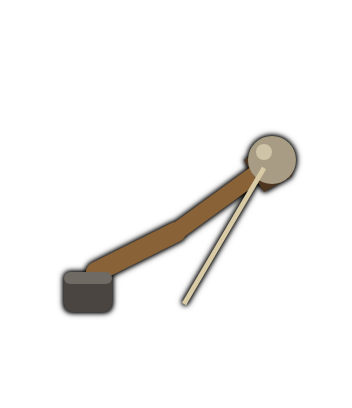
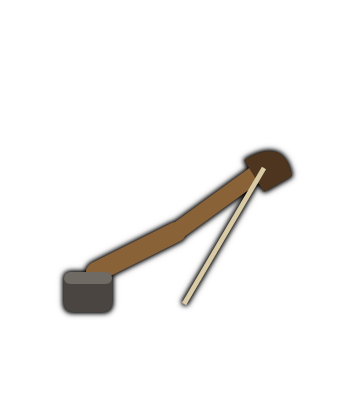
Stein-Animationen: Schleuder, Katapult, Onyx, Erdbeben, Wächter, Lawine, Bergkönig (27a)
Claude-Session: https://claude.ai/code/session_012Nsno37nEjc4wateER8C5H

Changed region(s): [[0.6875, 0.3235, 0.875, 0.4706]]

diff --git a/index.html b/index.html
@@ -222,7 +222,7 @@ const FIREBASE_CONFIG = {
   appId: "1:45840879921:web:f4f4f8bb60e49a091ae010"
 };
 const GAME_ID = "spiel1";   // anderer Name = eigenes, getrenntes Spiel
-const VERSION = "2026-10-26w";  // bei JEDER Änderung hochzählen: alte Handys merken so, dass sie neu laden müssen
+const VERSION = "2026-10-27a";  // bei JEDER Änderung hochzählen: alte Handys merken so, dass sie neu laden müssen
 
 /* =====================================================================
    SPIELDATEN – Regeln und Zahlen. Alles hier darf geändert werden.
@@ -1902,7 +1902,7 @@ function loadImg(k){   // bei Ladefehler bis zu 3 Wiederholungen (Handy-Netz)
 }
 loadImg.n = {};
 // 26i (F): bewegliche Teile. Jeder Turm hat ein Grundbild (assets/turm/<element>-<nr>.png) und PARTN Teilbilder (…-<nr>p<id>.png, gleiches Raster), die einzeln um einen Drehpunkt bewegt werden
-const PARTN = { feuer:[1,1,2,2,2,2,1,1], eis:[1,1,1,1,1,1,1,2], schatten:[1,1,2,2,2,1,3,2], stein:[1,2,1,1,2,2,2,3] };
+const PARTN = { feuer:[1,1,2,2,2,2,1,1], eis:[1,1,1,1,1,1,1,2], schatten:[1,1,2,2,2,1,3,2], stein:[1,2,2,1,2,3,2,3] };
 function towerImg(el, idx){
   const nmE = TOWER_NAME[el], n = nmE + '-' + (idx + 1), b = loadImg(n), cnt = PARTN[nmE][idx], ps = [];
   let wait = false;
@@ -1911,6 +1911,11 @@ function towerImg(el, idx){
   b.parts = ps; return b;
 }
 // Bewegung je Teil: [Drehpunkt x, y (Raster, Fuß = 0), Funktion(t Zeit, g 1→0 nach dem Schuss, w Ausschlag 0→1→0, dx, dy Zielrichtung) → {r Drehung, x, y Verschiebung, sx, sy, a}]
+const smooth01 = x => { x = Math.max(0, Math.min(1, x)); return x*x*(3 - 2*x); };
+const catArm = ts => ts < .18 ? -Math.PI*(1 - smooth01(ts/.18)) + .1*Math.sin(Math.PI*smooth01(ts/.18)) : ts < .5 ? .1*(1 - smooth01((ts - .18)/.32)) : ts < 1.1 ? 0 : -Math.PI*smooth01((ts - 1.1)/1.4);   // 27.10. Katapult: -π = gespannt (Wurfarm hinten unten), 0 = abgeworfen
+const spearArm = ts => ts < .12 ? -.5 + 1.9*smooth01(ts/.12) : ts < .55 ? 1.4*(1 - smooth01((ts - .12)/.43)) : -.5*smooth01((ts - 1.0)/.8);   // Wächter: Wurf nach vorn, danach zurück, dann wieder ausholen
+const lunge = ts => ts < .1 ? smooth01(ts/.1) : ts < .2 ? 1 : 1 - smooth01((ts - .2)/.35);   // Onyx: Biss
+const hammerPose = ts => { const f = ts < .1 ? smooth01(ts/.1) : ts < .35 ? 1 : 1 - smooth01((ts - .35)/.55); return [-1.7 + 1.55*f, .2 + 2.2*f]; };   // Bergkönig: [Armwinkel, Hammerwinkel]; f=1: Hammer schlägt auf den Boden
 const PARTS = (() => {
   const S = Math.sin, PI = Math.PI, sc = v => ({ sx: v, sy: v });
   return {
@@ -1944,13 +1949,13 @@ const PARTS = (() => {
     schatten7: [[6, -24, (t, g, w, dx, dy) => ({ r: Math.max(-.6, Math.min(.6, Math.atan2(dy, Math.abs(dx))))*.8 + .04*S(t*1.6) - .18*w })],
             [-2, -27, (t, g, w) => ({ r: .1*S(t*2.4) - .4*w })]],
     stein0: [[.6, -45, (t) => ({ sx: 1 + .25*S(t*6), r: .05*S(t*4 + 1) })]],
-    stein1: [[0, -30, (t, g) => ({ sy: 1 + .5*g })], [0, -22, (t, g) => ({ a: 1 - Math.min(1, g*1.6), y: 5*g })]],
-    stein2: [[0, -34, (t, g, w) => ({ r: .85*w })]],
-    stein3: [[6, -44, (t, g, w, dx, dy) => ({ r: .08*S(t*1.7) - .25*w, x: dx*5*w, y: dy*3*w })]],
+    stein1: [[0, -30, () => ({ a: 0 })], [0, -22, () => ({ a: 0 })]],     // Schleuder: Gummi und Stein zeichnet der Code (gespannt, schnellt zurück)
+    stein2: [[0, -34, (t, g, w, dx, dy, ts) => ({ r: catArm(ts) })], [0, -34, (t, g, w, dx, dy, ts) => ({ r: catArm(ts), a: ts < .09 || ts > 1.0 ? 1 : 0 })]],      // Katapult: Arm schwingt über den Kopf, Stein sitzt in der Schale
+    stein3: [[6, -44, (t, g, w, dx, dy, ts) => { const L = lunge(ts), ax = Math.abs(dx); return { r: .08*S(t*1.7) + Math.atan2(dy, ax)*.6*L, x: ax*30*L, y: dy*20*L }; }]],   // Onyx: Kopf schnellt zum Ziel, der Hals dehnt sich (Code)
     stein4: [[0, -2, (t, g, w) => ({ y: -4*w, x: S(t*70)*1.2*g })], [0, -12, (t, g, w) => ({ y: -6*w, x: -S(t*60)*1.5*g })]],
-    stein5: [[14, -40, (t, g, w, dx, dy) => ({ x: dx*9*w, y: dy*6*w, r: .03*S(t*1.5) })], [-15, -38, (t, g, w) => ({ r: .04*S(t*1.8) - .12*w })]],
-    stein6: [[0, -18, (t, g, w, dx) => ({ r: .06*S(t*2), y: -1*S(t*3) - 2*w, x: dx*3*w })], [-26, -10, (t, g) => ({ a: Math.min(1, .5 + .2*S(t*5) + .3*g), x: -3*g })]],
-    stein7: [[-26, -52, (t, g, w) => ({ r: .05*S(t*1.4) + .9*w })], [26, -52, (t, g, w) => ({ r: -.05*S(t*1.4 + 1) - .9*w })], [0, -62, (t, g, w) => ({ y: -1.2*S(t*1.4) + 3*w })]]
+    stein5: [[14, -40, (t, g, w, dx, dy, ts) => ({ r: spearArm(ts) })], [-15, -38, (t, g, w) => ({ r: .04*S(t*1.8) - .12*w })], [14, -40, (t, g, w, dx, dy, ts) => ({ r: spearArm(ts), a: ts < .07 || ts > 1.0 ? 1 : 0 })]],   // Wächter: Arm holt aus und wirft, Speer fliegt, neuer Speer kommt nach
+    stein6: [[0, -18, (t, g, w, dx) => ({ r: .06*S(t*2) + dx*.25*w, y: -1*S(t*3) - 2*w, x: dx*5*w })], [-26, -10, (t, g) => ({ a: Math.min(1, .5 + .2*S(t*5) + .3*g), x: -3*g })]],
+    stein7: [[-26, -52, (t) => ({ r: .04*S(t*1.4) })], [30, -52, (t, g, w, dx, dy, ts) => ({ r: hammerPose(ts)[0] })], [0, -62, (t, g, w) => ({ y: -1.2*S(t*1.4) + 3*w })]],   // Bergkönig: rechter Arm hebt/schlägt den Hammer (Hammer: Code)
   };
 })();
 const JETS = {};   // Flammenwerfer: letztes Ziel je Turm (Simulationszeit), daraus entsteht die zusammenhängende Flamme
@@ -1989,18 +1994,49 @@ function drawTower25(c, tw, x, y, cs, aim, glow){
     else if (nm === 'schatten0' || nm === 'schatten5') { sx = sy = 1; ox = oy = 0; }   // Schemen/Phantom: bewegt sich als Teilbild
     else if (nm === 'schatten1') { ox = 0; oy = Math.sin(now*3 + tw.x) * cs*.05 - cs*.05; sx = sy = 1; }   // Irrlicht schwebt
     else if (nm === 'feuer2' || nm === 'feuer3') { ox = -dx*cs*.07*g; }
-    const flip = (nm === 'feuer1' && Math.cos(aim) > 0) || (nm === 'feuer2' && Math.cos(aim) < 0) || (nm === 'feuer3' && Math.cos(aim) < 0) || (nm === 'feuer4' && Math.cos(aim) > 0) || ((nm === 'eis3' || nm === 'eis7' || nm === 'schatten7') && Math.cos(aim) < 0);   // Glumanda blickt nach links, Flammenwerfer-Mündung nach rechts   // Glumanda blickt nach links und dreht sich zum Ziel: Schuss kommt aus dem Maul
+    const flip = (nm === 'feuer1' && Math.cos(aim) > 0) || (nm === 'feuer2' && Math.cos(aim) < 0) || (nm === 'feuer3' && Math.cos(aim) < 0) || (nm === 'feuer4' && Math.cos(aim) > 0) || ((nm === 'eis3' || nm === 'eis7' || nm === 'schatten7' || nm === 'stein2' || nm === 'stein3' || nm === 'stein5' || nm === 'stein7') && Math.cos(aim) < 0);   // Glumanda blickt nach links, Flammenwerfer-Mündung nach rechts   // Glumanda blickt nach links und dreht sich zum Ziel: Schuss kommt aus dem Maul
     c.save(); c.translate(fx + ox, fy + oy); c.rotate(rotA); c.scale(flip ? -sx : sx, sy);
     c.drawImage(sp, -44*u, -92*u, 88*u, 102*u);
     const gp = Math.max(0, 1 - (now - (FIRE_T[key] === undefined ? -9 : FIRE_T[key])) / .5), wp = gp > 0 ? Math.sin(Math.PI * (1 - gp)) : 0, pd = PARTS[nm];   // bewegliche Teile
+    const ts = now - (FIRE_T[key] === undefined ? -9 : FIRE_T[key]);
+    if (nm === 'stein1') {   // Schleuder: Gummi spannt sich gegen die Zielrichtung, Stein in der Tasche, beim Schuss schnellt das Gummi nach vorn
+      const pull = ts < .5 ? Math.cos(ts*30)*Math.exp(-ts*8) : smooth01((ts - .7)/1.6), P = [-dx*pull*9, -27 - dy*pull*9];
+      c.strokeStyle = '#d9cba6'; c.lineWidth = Math.max(1, (2.2 - Math.max(0, pull)*.8)*u); c.lineCap = 'round'; c.beginPath(); c.moveTo(-9*u, -30*u); c.lineTo(P[0]*u, P[1]*u); c.lineTo(9*u, -30*u); c.stroke();
+      c.fillStyle = '#6b4a2c'; c.beginPath(); c.ellipse(P[0]*u, P[1]*u, 3.4*u, 2.6*u, 0, 0, 7); c.fill();
+      const sa = smooth01((ts - .8)/.4); if (sa > 0) { c.globalAlpha = sa; c.fillStyle = '#a89c84'; c.beginPath(); c.arc(P[0]*u, (P[1] - 1.5)*u, 3.8*u, 0, 7); c.fill(); c.fillStyle = '#cfc3a8'; c.beginPath(); c.arc((P[0] - 1)*u, (P[1] - 2.6)*u, 1.3*u, 0, 7); c.fill(); c.globalAlpha = 1; }
+    }
+    if (nm === 'stein3') {   // Onyx: beim Biss dehnt sich der Hals zum Ziel
+      const L = lunge(ts); if (L > .02) { const ex = 12 + Math.abs(dx)*30*L, ey = -48 + dy*20*L; c.lineCap = 'round'; c.lineJoin = 'round';
+        c.strokeStyle = '#7d725e'; c.lineWidth = 13*u; c.beginPath(); c.moveTo(12*u, -48*u); c.quadraticCurveTo((12 + ex)/2*u, (-48 + ey)/2*u - 6*u*L, ex*u, ey*u); c.stroke();
+        c.strokeStyle = '#b3a78f'; c.lineWidth = 9*u; c.setLineDash([1*u, 9*u]); c.beginPath(); c.moveTo(12*u, -48*u); c.quadraticCurveTo((12 + ex)/2*u, (-48 + ey)/2*u - 6*u*L, ex*u, ey*u); c.stroke(); c.setLineDash([]); }
+    }
     for (let i = 0; i < sp.parts.length; i++) {
       const d = pd && pd[i];
       if (!d) { c.drawImage(sp.parts[i], -44*u, -92*u, 88*u, 102*u); continue; }
-      const m = d[2](now + tw.x*.37 + tw.y*.21, gp, wp, dx, dy), px = d[0]*u, py = d[1]*u;
+      const m = d[2](now + tw.x*.37 + tw.y*.21, gp, wp, dx, dy, ts), px = d[0]*u, py = d[1]*u;
       c.save(); c.translate(px + (m.x || 0)*u, py + (m.y || 0)*u); c.rotate(m.r || 0); c.scale(m.sx === undefined ? 1 : m.sx, m.sy === undefined ? 1 : m.sy); if (m.a !== undefined) c.globalAlpha = m.a;
       c.drawImage(sp.parts[i], -44*u - px, -92*u - py, 88*u, 102*u); c.restore();
     }
+    if (nm === 'stein7') {   // Bergkönig: Hammer in der rechten Hand
+      const [ph, th] = hammerPose(ts), cr = Math.cos(ph), sr = Math.sin(ph), hx = 30 + 6*cr - 28*sr, hy = -52 + 6*sr + 28*cr;
+      c.save(); c.translate(hx*u, hy*u); c.rotate(th); c.scale(1.3, 1.3);
+      c.fillStyle = '#6b4a2c'; c.fillRect(-1.8*u, -27*u, 3.6*u, 33*u); c.fillStyle = '#8a6238'; c.fillRect(-1.8*u, -27*u, 1.3*u, 33*u);
+      c.fillStyle = '#66615b'; c.fillRect(-9.5*u, -38*u, 19*u, 14*u); c.fillStyle = '#8f8a84'; c.fillRect(-9.5*u, -38*u, 19*u, 10*u); c.fillStyle = '#c9c4bd'; c.fillRect(-9.5*u, -38*u, 19*u, 3*u);
+      c.fillStyle = '#f0c04a'; c.fillRect(-9.5*u, -32*u, 19*u, 2*u); c.restore();
+    }
     c.restore();
+    if (nm === 'stein7') {   // Riss läuft vom Hammerschlag zu den Monstern (Boden, kurz sichtbar)
+      const j = JETS['3:' + (tw.x + .5) + ',' + (tw.y + .5)], sg = Math.cos(aim) > 0 ? 1 : -1;
+      if (j && j.t <= now + .05) { const T0 = now - j.t - .08, dur = j.dur, fade = 1 - Math.max(0, (T0 - dur)/.45);
+        if (T0 > 0 && fade > 0) { const sx0 = fx + sg*57*u, sy0 = fy - 1*u, tx = j.tx*cs, ty = gyOf(j.ty, cs), pr = Math.min(1, T0/dur), N = 16, nx = -(ty - sy0), ny = tx - sx0, nl = Math.hypot(nx, ny) || 1;
+          const pt = i => { const t = Math.min(1, i/N*pr*1.0 + 0), jit = Math.sin(i*2.9 + tw.x)*cs*.07*(.4 + .6*Math.sin(Math.PI*i/N)); return [sx0 + (tx - sx0)*t + nx/nl*jit, sy0 + (ty - sy0)*t + ny/nl*jit]; };
+          c.save(); c.globalAlpha = fade; c.lineCap = 'round'; c.lineJoin = 'round';
+          for (const [w2, col] of [[cs*.26, '#d9cba688'], [cs*.12, '#1f1810']]) { c.strokeStyle = col; c.lineWidth = w2; c.beginPath(); for (let i = 0; i <= N; i++) { const q2 = pt(i); i ? c.lineTo(q2[0], q2[1]) : c.moveTo(q2[0], q2[1]); } c.stroke(); }
+          c.lineWidth = cs*.07; c.strokeStyle = '#1f1810'; for (let i = 3; i < N; i += 4) { const q2 = pt(i), s2 = (i % 8 === 3 ? 1 : -1); c.beginPath(); c.moveTo(q2[0], q2[1]); c.lineTo(q2[0] + nx/nl*s2*cs*.16, q2[1] + ny/nl*s2*cs*.16 + cs*.03); c.stroke(); }
+          c.fillStyle = '#d9cba6'; const hd = pt(N); for (let i = 0; i < 6; i++) { c.globalAlpha = fade*.7; c.beginPath(); c.arc(hd[0] + Math.sin(i*2.1 + now*9)*cs*.12, hd[1] - Math.abs(Math.sin(i*1.7 + now*7))*cs*.12*pr, cs*.035, 0, 7); c.fill(); }
+          c.restore(); } }
+      if (ts > .08 && ts < .45) { c.fillStyle = '#d9cba6'; for (let i = 0; i < 6; i++) { c.globalAlpha = .6*(1 - (ts - .08)/.37); c.beginPath(); c.arc(fx + sg*57*u + Math.sin(i*2.3)*cs*.14*(ts*3), fy - 3*u - (ts - .08)*cs*(.4 + i%3*.2), cs*.045, 0, 7); c.fill(); } c.globalAlpha = 1; }
+    }
     if (nm === 'feuer2' || nm === 'eis7' || nm === 'schatten7') { const j = JETS[tw.el + ':' + (tw.x + .5) + ',' + (tw.y + .5)], mxo = nm === 'feuer2' ? 17 : 27, myo = nm === 'feuer2' ? 12 : 42;   // Flamme / Eisfeuer: von der Mündung zum Ziel, solange der Turm schießt
       if (j && j.t <= now + .05 && now - j.t < .28) drawFlame(c, fx + (Math.cos(aim) > 0 ? 1 : -1)*mxo*u, fy - myo*u, j.tx*cs, gyOf(j.ty, cs) - cs*.25, cs, now, Math.min(1, (.28 - (now - j.t)) / .12), nm === 'eis7' ? true : nm === 'schatten7' ? 'sch' : false); }
     if (g > 0 && glow !== undefined) {                                              // Mündungseffekt in Elementfarbe (am Turm, in Zielrichtung)
@@ -2134,7 +2170,9 @@ function shot25(c, p, x, y, a, cs, time){
   if (i === 2) { rock(q*4.2, '#8d8270', '#b3a78f', w*.4); return true; }
   if (i === 3) { rock(q*3.4, '#7d725e', '#b3a78f', w*.5); c.fillStyle = '#5e5646'; for (const sg of [-1, 1]) { c.beginPath(); c.moveTo(x + sg*q*3.4, y); c.lineTo(x + sg*q*5.2, y - q*1.2); c.lineTo(x + sg*q*3.6, y - q*1.6); c.fill(); } return true; }
   if (i === 5) { rot(() => { c.fillStyle = '#908a83'; c.beginPath(); c.moveTo(q*6, 0); c.lineTo(-q*4, -q*2.2); c.lineTo(-q*3, 0); c.lineTo(-q*4, q*2.2); c.closePath(); c.fill(); c.fillStyle = '#b8b2aa'; c.beginPath(); c.moveTo(q*6, 0); c.lineTo(-q*4, -q*2.2); c.lineTo(-q*3, 0); c.fill(); }); return true; }
-  if (i === 6) { rock(q*2.4, '#a89c84', '#cfc3a8', w*.3); c.save(); c.translate(-Math.cos(a)*q*3, -Math.sin(a)*q*3); rock(q*1.8, '#8d8270', '#b3a78f', w); c.restore(); return true; }
+  if (i === 6) { const tr = Math.hypot(p.x - p.x0, p.y - p.y0)*cs, sg = Math.cos(a) < 0 ? -1 : 1, ca = Math.cos(a), sa = Math.sin(a);   // rollende Steine mit Staub
+    c.fillStyle = '#d9cba6'; for (let j = 1; j <= 4; j++) { c.globalAlpha = .5 - j*.1; c.beginPath(); c.arc(x - ca*q*j*2.6, y - sa*q*j*1.3 + q*1.4, q*(1.1 + j*.6), 0, 7); c.fill(); } c.globalAlpha = 1;
+    rock(q*2.4, '#a89c84', '#cfc3a8', sg*tr/(q*2.4)); c.save(); c.translate(-ca*q*3.6, -sa*q*1.8); rock(q*1.8, '#8d8270', '#b3a78f', sg*tr/(q*1.8) + 1); c.restore(); return true; }
   if (i === 7) { rock(q*4.6, '#8f8a84', '#b8b2aa', w*.3); c.fillStyle = '#f1f3f5'; c.beginPath(); c.arc(x - q*1, y - q*2.4, q*1.6, 0, 7); c.fill(); return true; }
   return false;
 }
@@ -2152,13 +2190,15 @@ function drawShot(c, p, cs, time){
   const tot = Math.hypot(p.tx - p.x0, p.ty - p.y0) || 1, left = Math.hypot(dx, dy);
   const k = cs * GRID * .7;                 // Geschosse in alter Feldgröße
   let x = p.x*cs, y = gyOf(p.y, cs), h = 0;
-  if (p.lob) {                              // Wurf: Bogen nach oben, Schatten am Boden
+  const roll = CUR.k < 1 && p.el === 3 && p.idx === 6;   // Lawine: Steine rollen am Boden
+  if (p.lob && !roll) {                              // Wurf: Bogen nach oben, Schatten am Boden
     const tAll = Math.hypot(p.x - p.x0, p.y - p.y0) + left, prog = tAll ? 1 - left / tAll : 1;
     h = Math.sin(Math.PI * prog) * Math.min(1.2 * GRID, tAll * .35) * cs;
     c.fillStyle = '#0006'; c.beginPath(); c.ellipse(x, y, k*.12, k*.06, 0, 0, Math.PI*2); c.fill();
   }
-  y -= h + (CUR.k < 1 && !p.lob ? cs*.25 : 0);
+  y -= h + (CUR.k < 1 && !p.lob ? cs*.25 : 0) + (roll ? cs*.06 : 0);
   if (CUR.k < 1 && p.el === 0 && p.idx === 2) JETS['0:' + p.x0 + ',' + p.y0] = { tx:p.tx, ty:p.ty, t:time };   // Flammenwerfer: Ziel merken, die Flamme zeichnet der Turm
+  if (CUR.k < 1 && p.el === 3 && p.idx === 7) { const jk = '3:' + p.x0 + ',' + p.y0; if (!JETS[jk] || JETS[jk].sh !== p) JETS[jk] = { tx:p.tx, ty:p.ty, t:time, sh:p, dur:Math.max(.2, tot / (p.sp || 6)) }; return; }   // Bergkönig: Riss statt Geschoss, der Turm zeichnet ihn
   if (CUR.k < 1 && p.el === 2 && p.idx === 7) JETS['2:' + p.x0 + ',' + p.y0] = { tx:p.tx, ty:p.ty, t:time };   // Schattendrache: schwarzes Feuer
   if (CUR.k < 1 && p.el === 1 && p.idx === 7) JETS['1:' + p.x0 + ',' + p.y0] = { tx:p.tx, ty:p.ty, t:time };   // Eisdrache: Ziel merken, der Turm zeichnet den Eisatem
   if (CUR.k < 1 && p.el === 1 && p.idx === 3) { const f = Math.max(0, 1 - (1 - left / tot) * 5), H = TOWER_H.eis[3], uu = cs * Math.min(1.5, Math.max(.5, H * (1 + 3 * .03) / 44)) / H; x += (Math.cos(dir) > 0 ? 1 : -1) * 19 * uu * f; y -= 0; }   // Schneekönig: Speer startet in der Hand
@@ -2166,6 +2206,11 @@ function drawShot(c, p, cs, time){
   if (CUR.k < 1 && p.el === 0 && p.idx === 3) { const f = Math.max(0, 1 - (1 - left / tot) * 5), H = TOWER_H.feuer[3], uu = cs * Math.min(1.5, Math.max(.5, H * (1 + 3 * .03) / 44)) / H; x += (Math.cos(dir) > 0 ? 1 : -1) * 20 * uu * f; }   // Brandpfeil: startet vorn am Bogen
   if (CUR.k < 1 && p.el === 0 && p.idx === 4) { const f = Math.max(0, 1 - (1 - left / tot) * 5), H = TOWER_H.feuer[4], uu = cs * Math.min(1.5, Math.max(.5, H * (1 + 4 * .03) / 44)) / H; x += (Math.cos(dir) > 0 ? 1 : -1) * 17 * uu * f; }   // Feuerteufel: Dreizack startet in der Hand
   if (CUR.k < 1 && p.el === 0 && p.idx === 1) { const f = Math.max(0, 1 - (1 - left / tot) * 5), uu = cs * .609 / 26; x += (Math.cos(dir) > 0 ? 1 : -1) * 27 * uu * f; }   // Glumanda: Geschoss startet im Maul
+  if (CUR.k < 1 && p.el === 3) { const pr = 1 - left / tot, f = Math.max(0, 1 - pr*(p.idx === 2 ? 3 : 5)), sg = Math.cos(dir) > 0 ? 1 : -1, H = TOWER_H.stein[p.idx], uu = cs * Math.min(1.5, Math.max(.5, H * (1 + p.idx * .03) / 44)) / H;
+    if (p.idx === 1) y -= 27*uu*f;                                  // Schleuder: aus der Tasche
+    else if (p.idx === 2) { x += sg*4*uu*f; y -= 61*uu*f; }         // Katapult: vom Arm oben
+    else if (p.idx === 3) { x += sg*16*uu*f; y -= 50*uu*f; }        // Onyx: aus dem Maul
+    else if (p.idx === 5) { x += sg*36*uu*f; y -= 61*uu*f; } }      // Wächter: Speer aus der Hand
   let ang25 = Math.atan2(dy * CUR.k, dx);
   if (CUR.k < 1 && p.el === 0 && p.idx === 7) {   // Höllenfeuer: Komet startet an der Turmspitze, Schweif folgt der Flugbahn (Bogen)
     const f = Math.max(0, 1 - (1 - left / tot) * 4); y -= cs*.7*f;
@@ -2212,7 +2257,10 @@ function drawFx(c, f, cs, time){
   if (f.kind === 'lance') { c.globalAlpha = 1 - k; c.strokeStyle = '#dff6ff'; c.lineWidth = Math.max(2, cs*.12) * (1 - k*.5);
     c.beginPath(); c.moveTo(x, y); c.lineTo(f.x1*cs, f.y1*cs); c.stroke(); c.globalAlpha = 1; return; }
   if (f.kind === 'quake') { c.globalAlpha = (1 - k) * .8; c.strokeStyle = '#d6c8a8'; c.lineWidth = 2;
-    for (let j = 0; j < 3; j++) { c.beginPath(); c.arc(x, y, f.r*cs*Math.min(1, k + j*.25), 0, Math.PI*2); c.stroke(); }
+    if (CUR.k < 1) { c.globalAlpha = Math.min(1, (1 - k)*1.6); const R0 = f.r*cs*Math.min(1, k*1.15 + .05), jag = (rr, ph) => { c.beginPath(); for (let n = 0; n <= 64; n++) { const an = n/64*Math.PI*2, rj = rr*(1 + .05*Math.sin(n*2.7 + ph) + .04*Math.sin(n*7.1 + ph*2)); n ? c.lineTo(x + Math.cos(an)*rj, y + Math.sin(an)*rj) : c.moveTo(x + Math.cos(an)*rj, y + Math.sin(an)*rj); } c.closePath(); };   // Riss im Kreis vom Turm aus
+      c.lineJoin = 'round'; c.strokeStyle = '#d9cba6aa'; c.lineWidth = cs*.16; jag(R0, f.x); c.stroke(); c.strokeStyle = '#1f1810'; c.lineWidth = cs*.07; jag(R0, f.x); c.stroke();
+      c.lineWidth = cs*.04; for (let n = 0; n < 14; n++) { const an = n/14*Math.PI*2 + f.x, r1 = R0*(.15 + .5*((n*7)%5)/5), r2 = R0*(1 + .02*Math.sin(n)); c.beginPath(); c.moveTo(x + Math.cos(an)*r1, y + Math.sin(an)*r1); c.lineTo(x + Math.cos(an + .08*Math.sin(n*3))*(r1 + r2)/2, y + Math.sin(an + .08*Math.sin(n*3))*(r1 + r2)/2); c.lineTo(x + Math.cos(an)*r2, y + Math.sin(an)*r2); c.stroke(); } }
+    else for (let j = 0; j < 3; j++) { c.beginPath(); c.arc(x, y, f.r*cs*Math.min(1, k + j*.25), 0, Math.PI*2); c.stroke(); }
     spr(c, SPR.debris, x, y, f.r*cs*1.2, 0, (1 - k) * .7); c.globalAlpha = 1; }
 }
 let cssCache = null;

diff --git a/tools/turm/tuerme.html b/tools/turm/tuerme.html
@@ -70,10 +70,10 @@ s:[
 st:[
 ['Kiesel','Fläche','kleiner Wachturm wie von einer Ritterburg',34,46,()=>`<ellipse cx="0" cy="-2" rx="16" ry="4.5" fill="#4d453a"/><path d="M-11 -2 L-11 -30 L11 -30 L11 -2Z" fill="#a89c84"/><path d="M3 -30 L11 -30 L11 -2 L3 -2Z" fill="#8a7e68"/><path d="M-11 -30 L-11 -36 L-7 -36 L-7 -33 L-3 -33 L-3 -36 L1 -36 L1 -33 L5 -33 L5 -36 L11 -36 L11 -30Z" fill="#b9ad94"/><path d="M-4 -2 L-4 -12 Q0 -17 4 -12 L4 -2Z" fill="#4a3220"/><rect x="-1.5" y="-24" width="3" height="7" rx="1" fill="#2a2218"/><path d="M-7 -12 h14 M-11 -20 h22 M-11 -26 h22" stroke="#7d725e" stroke-width=".8"/><g data-p="0"><rect x="-.6" y="-48" width="1.2" height="12" fill="#6b4a2c"/><path d="M.6 -48 L9 -45 L.6 -42Z" fill="#c33"/></g>`],
 ['Schleuder','Fläche','Astgabel mit Steinschleuder',26,50,()=>`<path d="M0 -2 L0 -14 M0 -14 L-9 -30 M0 -14 L9 -30" stroke="#6b4a2c" stroke-width="4" fill="none" stroke-linecap="round"/><g data-p="0"><path d="M-9 -30 Q0 -20 9 -30" stroke="#d9cba6" stroke-width="2" fill="none"/></g><g data-p="1"><circle cx="0" cy="-22" r="4.5" fill="#a89c84"/></g>`],
-['Katapult','Reichweite','Belagerungsgerät mit Rädern, Seilen und Steinhaufen',40,60,()=>`<ellipse cx="0" cy="-1" rx="30" ry="5" fill="#2a2218" opacity=".4"/><rect x="-22" y="-14" width="44" height="6" rx="2" fill="#6b4a2c"/><rect x="-22" y="-14" width="44" height="2" fill="#8a6238"/><g><circle cx="-17" cy="-7" r="8" fill="#4d3520"/><circle cx="-17" cy="-7" r="5.6" fill="#8a6238"/><circle cx="-17" cy="-7" r="1.6" fill="#2a2218"/><path d="M-17 -12.6 V-1.4 M-22.6 -7 H-11.4 M-21 -11 L-13 -3 M-21 -3 L-13 -11" stroke="#4d3520" stroke-width="1"/></g><g><circle cx="17" cy="-7" r="8" fill="#4d3520"/><circle cx="17" cy="-7" r="5.6" fill="#8a6238"/><circle cx="17" cy="-7" r="1.6" fill="#2a2218"/><path d="M17 -12.6 V-1.4 M11.4 -7 H22.6 M13 -11 L21 -3 M13 -3 L21 -11" stroke="#4d3520" stroke-width="1"/></g><path d="M-14 -14 L-8 -34 M14 -14 L8 -34" stroke="#6b4a2c" stroke-width="4" stroke-linecap="round"/><rect x="-10" y="-36" width="20" height="4" rx="2" fill="#4d3520"/><g data-p="0"><path d="M0 -34 L-20 -24" stroke="#8a6238" stroke-width="5" stroke-linecap="round"/><rect x="-28" y="-24" width="12" height="10" rx="2" fill="#4a4540"/><rect x="-28" y="-24" width="12" height="3" rx="1.5" fill="#6f6a64"/><path d="M0 -34 L22 -50" stroke="#8a6238" stroke-width="4.4" stroke-linecap="round"/><path d="M17 -52 Q27 -58 29 -48 L22 -44Z" fill="#4d3520"/><circle cx="24" cy="-52" r="6" fill="#a89c84"/><circle cx="22" cy="-54" r="2" fill="#cfc3a8"/><path d="M22 -50 L2 -16" stroke="#d9cba6" stroke-width="1.2"/></g><circle cx="-26" cy="-4" r="3.2" fill="#a89c84"/><circle cx="-31" cy="-3" r="2.6" fill="#8d8270"/><circle cx="-28" cy="-8" r="2.4" fill="#b3a78f"/>`],
+['Katapult','Reichweite','Belagerungsgerät mit Rädern, Seilen und Steinhaufen',40,60,()=>`<ellipse cx="0" cy="-1" rx="30" ry="5" fill="#2a2218" opacity=".4"/><rect x="-22" y="-14" width="44" height="6" rx="2" fill="#6b4a2c"/><rect x="-22" y="-14" width="44" height="2" fill="#8a6238"/><g><circle cx="-17" cy="-7" r="8" fill="#4d3520"/><circle cx="-17" cy="-7" r="5.6" fill="#8a6238"/><circle cx="-17" cy="-7" r="1.6" fill="#2a2218"/><path d="M-17 -12.6 V-1.4 M-22.6 -7 H-11.4 M-21 -11 L-13 -3 M-21 -3 L-13 -11" stroke="#4d3520" stroke-width="1"/></g><g><circle cx="17" cy="-7" r="8" fill="#4d3520"/><circle cx="17" cy="-7" r="5.6" fill="#8a6238"/><circle cx="17" cy="-7" r="1.6" fill="#2a2218"/><path d="M17 -12.6 V-1.4 M11.4 -7 H22.6 M13 -11 L21 -3 M13 -3 L21 -11" stroke="#4d3520" stroke-width="1"/></g><path d="M-14 -14 L-8 -34 M14 -14 L8 -34" stroke="#6b4a2c" stroke-width="4" stroke-linecap="round"/><rect x="-10" y="-36" width="20" height="4" rx="2" fill="#4d3520"/><g data-p="0"><path d="M0 -34 L-20 -24" stroke="#8a6238" stroke-width="5" stroke-linecap="round"/><rect x="-28" y="-24" width="12" height="10" rx="2" fill="#4a4540"/><rect x="-28" y="-24" width="12" height="3" rx="1.5" fill="#6f6a64"/><path d="M0 -34 L22 -50" stroke="#8a6238" stroke-width="4.4" stroke-linecap="round"/><path d="M17 -52 Q27 -58 29 -48 L22 -44Z" fill="#4d3520"/><path d="M22 -50 L2 -16" stroke="#d9cba6" stroke-width="1.2"/></g><g data-p="1"><circle cx="24" cy="-52" r="6" fill="#a89c84"/><circle cx="22" cy="-54" r="2" fill="#cfc3a8"/></g><circle cx="-26" cy="-4" r="3.2" fill="#a89c84"/><circle cx="-31" cy="-3" r="2.6" fill="#8d8270"/><circle cx="-28" cy="-8" r="2.4" fill="#b3a78f"/>`],
 ['Onyx','Fläche','steinfarbene Steinschlange, aufgerichtet',44,56,()=>`<path d="M-20 -3 Q-24 -12 -12 -14 Q4 -16 4 -24 Q4 -32 -6 -34 Q-16 -36 -14 -46 Q-12 -56 0 -56 Q10 -56 12 -48" stroke="#7d725e" stroke-width="13" fill="none" stroke-linecap="round" stroke-linejoin="round"/><path d="M-20 -3 Q-24 -12 -12 -14 Q4 -16 4 -24 Q4 -32 -6 -34 Q-16 -36 -14 -46 Q-12 -56 0 -56 Q10 -56 12 -48" stroke="#b3a78f" stroke-width="9" fill="none" stroke-linecap="round" stroke-linejoin="round" stroke-dasharray="1 9"/><path d="M-20 -3 Q-24 -12 -12 -14 Q4 -16 4 -24 Q4 -32 -6 -34 Q-16 -36 -14 -46 Q-12 -56 0 -56 Q10 -56 12 -48" stroke="#5e5646" stroke-width="1.2" fill="none" stroke-dasharray="2 8" opacity=".8"/><g data-p="0"><path d="M6 -56 L22 -52 L26 -44 L14 -42 L8 -46Z" fill="#7d725e"/><path d="M6 -56 L14 -62 L16 -54Z M14 -42 L20 -36 L22 -43Z" fill="#8d8270"/><circle cx="14" cy="-50" r="2.4" fill="#ffd27a"/><path d="M20 -48 l8 4 l-7 .5Z" fill="#c33"/></g><path d="M-4 -4 L2 -10 L8 -4Z M8 -6 L14 -12 L18 -5Z" fill="#8d8270"/>`],
 ['Erdbeben','Effekt','Platte mit Spalte',30,60,()=>`<g data-p="0"><path d="M-22 -2 L-18 -9 L18 -9 L22 -2Z" fill="#a89c84"/><path d="M-3 -9 L2 -6 L-1 -3 L3 -1" stroke="#2a2218" stroke-width="3" fill="none"/></g><g data-p="1"><path d="M-14 -9 L-17 -16 L-11 -13Z M12 -9 L16 -18 L18 -11Z" fill="#7d725e"/><path d="M-22 -14 q4 -4 0 -8 M22 -14 q-4 -4 0 -8" stroke="#d9cba6" stroke-width="2" fill="none"/></g>`],
-['Granitwächter','Fläche','Steinwächter in voller Gestalt, Schild und Speer',54,56,()=>`<ellipse cx="0" cy="-1.5" rx="16" ry="4" fill="#2a2218" opacity=".4"/><rect x="-11" y="-18" width="8" height="17" rx="2" fill="#7f7a74"/><rect x="3" y="-18" width="8" height="17" rx="2" fill="#6f6a64"/><rect x="-13" y="-3" width="11" height="4" rx="1" fill="#6f6a64"/><rect x="2" y="-3" width="11" height="4" rx="1" fill="#5e5953"/><path d="M-13 -20 L-13 -40 L13 -40 L13 -20Z" fill="#908a83"/><path d="M3 -40 L13 -40 L13 -20 L3 -20Z" fill="#78736c"/><rect x="-15" y="-42" width="30" height="8" rx="3" fill="#a8a29a"/><rect x="-9" y="-56" width="18" height="15" rx="3" fill="#9a948c"/><path d="M-9 -56 L9 -56 L9 -52 L-9 -52Z" fill="#6f6a64"/><rect x="-6" y="-50" width="4.6" height="3" fill="#ffd27a"/><rect x="1.4" y="-50" width="4.6" height="3" fill="#ffd27a"/><g data-p="1"><rect x="-18" y="-42" width="7" height="22" rx="3" fill="#8d8780"/><path d="M-26 -36 L-12 -36 L-12 -22 Q-19 -16 -26 -22Z" fill="#5e5953"/><path d="M-26 -36 L-12 -36" stroke="#cdbb8f" stroke-width="1.6"/><path d="M-19 -35 V-21" stroke="#cdbb8f" stroke-width="1.2"/></g><g data-p="0"><rect x="11" y="-42" width="7" height="20" rx="3" fill="#78736c"/><rect x="16" y="-62" width="2.6" height="46" fill="#6b4a2c"/><path d="M17.3 -70 L21 -60 L13.6 -60Z" fill="#c9c9cf"/></g>`],
+['Granitwächter','Fläche','Steinwächter in voller Gestalt, Schild und Speer',54,56,()=>`<ellipse cx="0" cy="-1.5" rx="16" ry="4" fill="#2a2218" opacity=".4"/><rect x="-11" y="-18" width="8" height="17" rx="2" fill="#7f7a74"/><rect x="3" y="-18" width="8" height="17" rx="2" fill="#6f6a64"/><rect x="-13" y="-3" width="11" height="4" rx="1" fill="#6f6a64"/><rect x="2" y="-3" width="11" height="4" rx="1" fill="#5e5953"/><path d="M-13 -20 L-13 -40 L13 -40 L13 -20Z" fill="#908a83"/><path d="M3 -40 L13 -40 L13 -20 L3 -20Z" fill="#78736c"/><rect x="-15" y="-42" width="30" height="8" rx="3" fill="#a8a29a"/><rect x="-9" y="-56" width="18" height="15" rx="3" fill="#9a948c"/><path d="M-9 -56 L9 -56 L9 -52 L-9 -52Z" fill="#6f6a64"/><rect x="-6" y="-50" width="4.6" height="3" fill="#ffd27a"/><rect x="1.4" y="-50" width="4.6" height="3" fill="#ffd27a"/><g data-p="1"><rect x="-18" y="-42" width="7" height="22" rx="3" fill="#8d8780"/><path d="M-26 -36 L-12 -36 L-12 -22 Q-19 -16 -26 -22Z" fill="#5e5953"/><path d="M-26 -36 L-12 -36" stroke="#cdbb8f" stroke-width="1.6"/><path d="M-19 -35 V-21" stroke="#cdbb8f" stroke-width="1.2"/></g><g data-p="0"><rect x="11" y="-42" width="7" height="20" rx="3" fill="#78736c"/></g><g data-p="2"><rect x="16" y="-62" width="2.6" height="46" fill="#6b4a2c"/><path d="M17.3 -70 L21 -60 L13.6 -60Z" fill="#c9c9cf"/></g>`],
 ['Lawine','Fläche','rollende Felsen',52,60,()=>`<path d="M-24 -2 L-10 -14 L2 -12 L22 -24 L24 -2Z" fill="#a89c84"/><g data-p="0"><circle cx="14" cy="-24" r="9" fill="#9b8f78"/><circle cx="-2" cy="-20" r="7" fill="#b3a78f"/><circle cx="-14" cy="-10" r="5" fill="#8d8270"/></g><g data-p="1"><path d="M-26 -8 l-8 3 M-24 -16 l-9 2" stroke="#d9cba6" stroke-width="2" stroke-linecap="round" opacity=".7"/></g>`],
 ['Bergkönig','Effekt','riesiger Steingolem mit Schneekappe und Krone',74,66,()=>`<ellipse cx="0" cy="-1.5" rx="24" ry="5.5" fill="#2a2218" opacity=".45"/><rect x="-16" y="-24" width="12" height="23" rx="3" fill="#7f7a74"/><rect x="4" y="-24" width="12" height="23" rx="3" fill="#6a655f"/><rect x="-19" y="-4" width="16" height="5" rx="1.5" fill="#6a655f"/><rect x="3" y="-4" width="16" height="5" rx="1.5" fill="#57534e"/><path d="M-22 -26 L-26 -52 L-12 -64 L12 -64 L26 -52 L22 -26Z" fill="#8f8a84"/><path d="M6 -64 L12 -64 L26 -52 L22 -26 L6 -26Z" fill="#706b65"/><path d="M-14 -34 L-6 -46 L2 -36 M6 -48 L12 -38" stroke="#57534e" stroke-width="2" fill="none"/><path d="M-26 -52 L-12 -64 L-6 -56 L-14 -48Z" fill="#f1f3f5"/><g data-p="0"><path d="M-36 -54 Q-42 -44 -38 -30 Q-34 -22 -26 -26 L-24 -50Z" fill="#7f7a74"/><circle cx="-36" cy="-24" r="6" fill="#8f8a84"/></g><g data-p="1"><path d="M36 -54 Q42 -44 38 -30 Q34 -22 26 -26 L24 -50Z" fill="#66615b"/><circle cx="36" cy="-24" r="6" fill="#706b65"/></g><g data-p="2"><rect x="-13" y="-80" width="26" height="17" rx="4" fill="#9a948c"/><path d="M-13 -80 L-9 -86 L-4 -80 M-4 -80 L0 -88 L4 -80 M4 -80 L9 -86 L13 -80" fill="#f1f3f5"/><path d="M-12 -76 L12 -76 L12 -73 L-12 -73Z" fill="#f0c04a"/><path d="M-12 -76 L-9 -83 L-5 -76 L0 -85 L5 -76 L9 -83 L12 -76Z" fill="#f0c04a"/><rect x="-8" y="-69" width="6" height="3.6" fill="#ff8a3d"/><rect x="2" y="-69" width="6" height="3.6" fill="#ff8a3d"/><rect x="-7" y="-60" width="14" height="3" fill="#3d3a36"/></g>`]]
 };

diff --git a/team/UPDATES.md b/team/UPDATES.md
@@ -2,6 +2,10 @@
 
 <!-- So geht ein neuer Eintrag: direkt UNTER der Zeile „NEUE EINTRÄGE HIER“ einfügen (nie über ihr, nie in diesen Kopf).
 
+### 27.10. 17:30 · F · 2026-10-27a – Stein-Animationen
+- Schleuder spannt das Gummi und schnellt zurück; Katapult schwingt den Wurfarm über den Kopf; Onyx beißt zu und dehnt den Hals; Erdbeben: gezackter Riss im Kreis; Granitwächter wirft den Speer (neuer wächst nach); Lawine: Steine rollen mit Staub; Bergkönig schlägt mit dem Hammer, ein Riss läuft zu den Monstern.
+- Katapult/Onyx/Wächter/Bergkönig drehen sich zum Ziel (spiegeln). Türmbilder unverändert, nur Teile (Katapult-Stein, Wächter-Speer) getrennt.
+
 ### 26.10. 19:30 · F · 2026-10-26w – Schatten: Schattenturm, Seelenfresser-Silhouette, Phantom, Schattendrache
 - Fluchstein heißt jetzt Schattenturm (dunkler Turm im Schattensee, wie der Lavaturm); Ewige Nacht heißt Schattendrache und speit schwarzes Feuer. Namen nur in der Anzeige.
 - Seelenfresser: durchsichtige Silhouette des Monsters fliegt vom Ziel zum Turm. Phantom schießt ein kleines schwarzes Phantom.
@@ -46,7 +50,4 @@ Neues Spiel → Spielart „Kreativ“ öffnet `?kreativ=1`: nur dieses Gerät, 
 
 ### 26.10. 13:55 · F · 2026-10-26j – Turm-Bilder laden robuster (iPhone)
 Fehlende Symbole auf dem iPhone gemeldet. Bilder, die nicht laden, werden bis zu 3-mal neu versucht; ein endgültig fehlendes Teilbild blockiert den Turm nicht mehr. Ursache am Handy noch nicht bestätigt (am Laptop nicht nachstellbar).
-
-### 26.10. 13:30 · F · 2026-10-26i – Türme mit beweglichen Teilen (Schräg-Ansicht)
-Alle 32 Türme sind in Grundbild + Teilbilder zerlegt (`assets/turm/<element>-<nr>p<id>.png`, 79 Dateien). `PARTS` in index.html: Drehpunkt + Bewegung je Teil (Leerlauf-Wackeln, beim Schuss Ausschlag): z. B. Katapult-Arm schwingt, Bergkönig hebt beide Arme, Granitwächter stößt mit dem Speer, Seelenfresser klappt das Maul, Sonne dreht sich, Schleuder-Stein fliegt weg. Nur Anzeige. Neu laden.
 

diff --git a/team/archiv/updates-archiv.md b/team/archiv/updates-archiv.md
@@ -1,5 +1,8 @@
 # Archiv: ältere Updates (neueste oben)
 
+### 26.10. 13:30 · F · 2026-10-26i – Türme mit beweglichen Teilen (Schräg-Ansicht)
+Alle 32 Türme sind in Grundbild + Teilbilder zerlegt (`assets/turm/<element>-<nr>p<id>.png`, 79 Dateien). `PARTS` in index.html: Drehpunkt + Bewegung je Teil (Leerlauf-Wackeln, beim Schuss Ausschlag): z. B. Katapult-Arm schwingt, Bergkönig hebt beide Arme, Granitwächter stößt mit dem Speer, Seelenfresser klappt das Maul, Sonne dreht sich, Schleuder-Stein fliegt weg. Nur Anzeige. Neu laden.
+
 ### 26.10. 13:00 · F · 2026-10-26h – Angriffe der Türme passend zu den Bildern (Schräg-Ansicht)
 Geschosse je Turm eigene Optik (`shot25`: Funke, Feuerball, Flammenstrahl, Eissplitter, Schneeflocke, Speer, Seelen-Orb, Runenstein, Felsbrocken, Onyx-Splitter u. a.), Türme reagieren beim Schuss (`drawTower25`): Rückstoß, Speerstoß beim Granitwächter, Aufstampfen beim Bergkönig, Kippen beim Katapult, Flamme beim Flammenwerfer, Lavafunken beim Lavaturm, Irrlicht schwebt. Nur Anzeige, nur Schräg-Ansicht.
 
